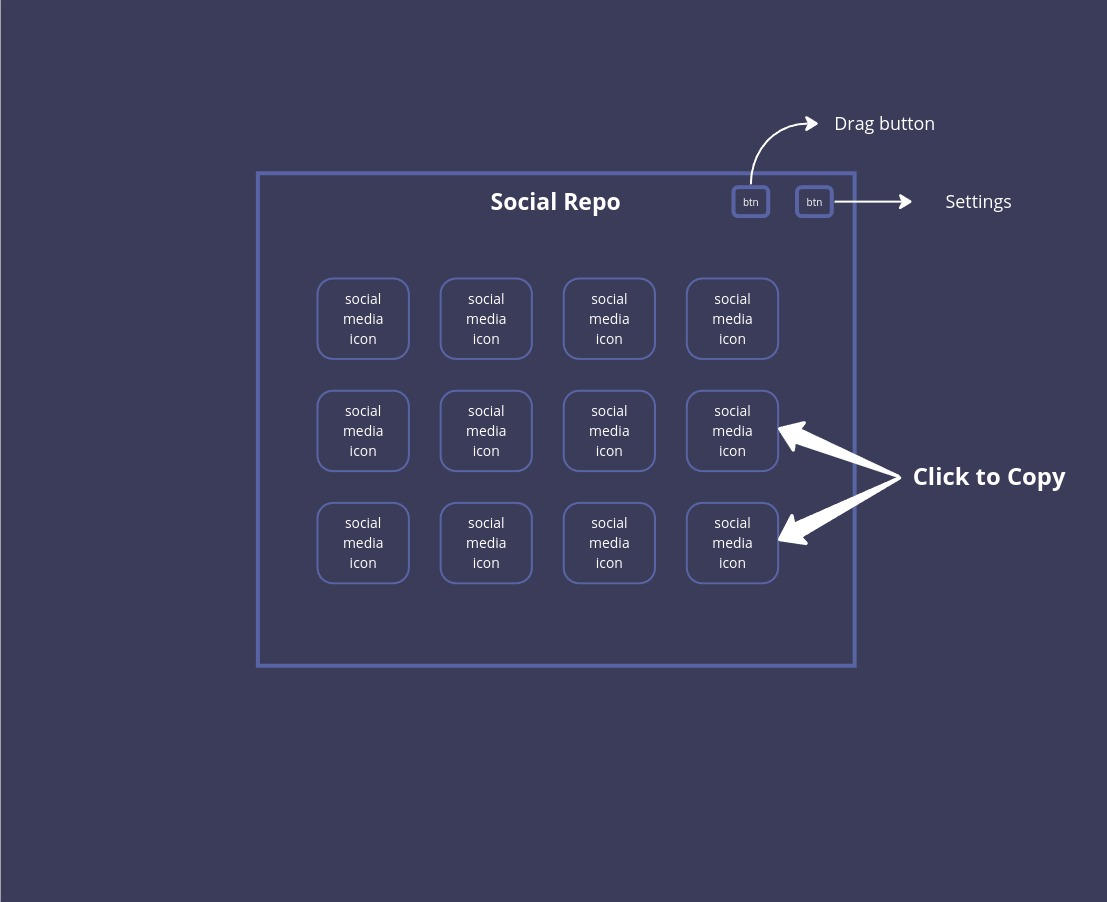
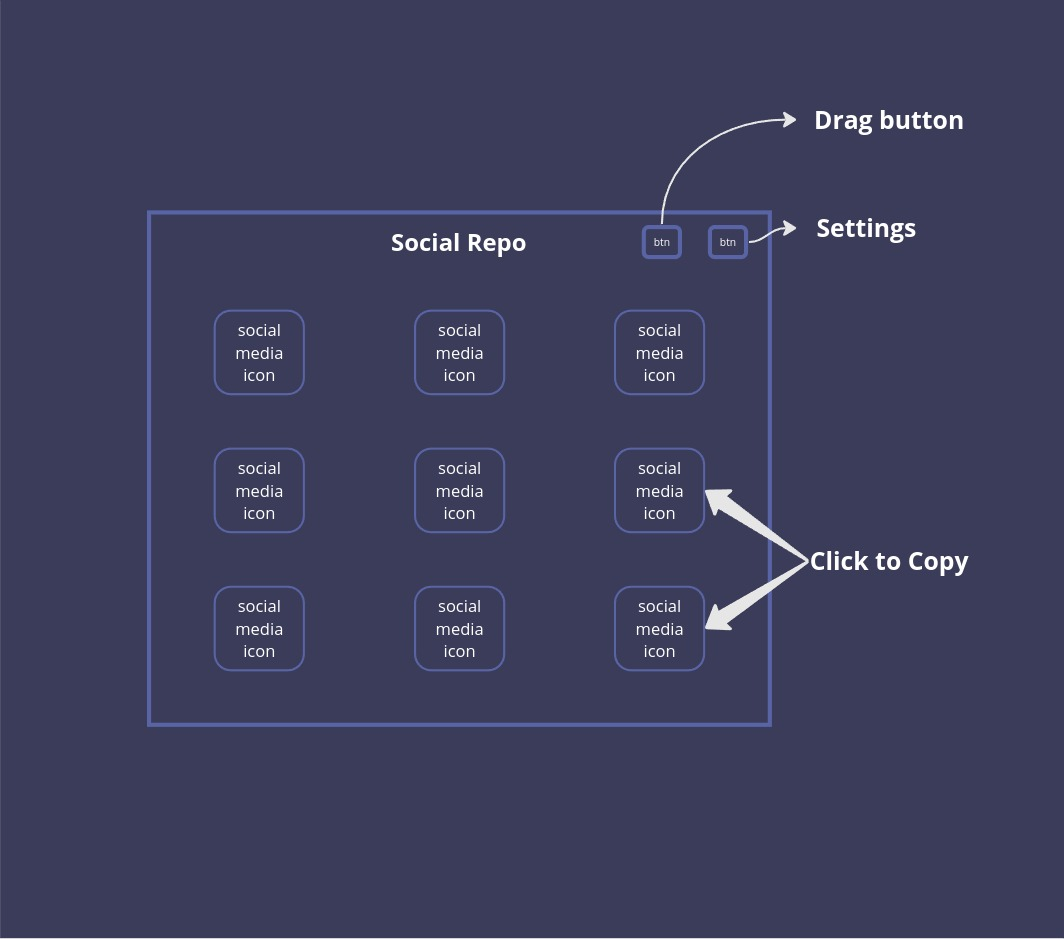
Added Project details

Changed region(s): [[0.1241, 0.1863, 0.9615, 0.7761], [0.0, 0.9933, 1.0, 1.0], [0.6823, 0.1242, 0.8994, 0.1552]]

diff --git a/.github/docs/README.md b/.github/docs/README.md
@@ -1,0 +1,81 @@
+# Social Repo - Project Details
+
+## Project Overview
+
+**Social Repo** is a browser extension which simplify your process of filling out forms and applications by storing users' social media profile links.
+
+All the details regarding the project are listed here.
+If you are here, you might be interested in contributing to the project. 🎉
+
+You can go through the following sections to get an idea about the project and then read the [contribution guidelines](CONTRIBUTING) to get started.
+
+## Table of Contents
+
+1. [Design](#design)
+    - [Front panel](#front-panel)
+    - [Full layout](#full-layout)
+2. [Logo](#logo)
+3. [Social links data](#social-links-data)
+4. [Color Theme](#color-theme)
+5. [Technical Features](#technical-features)
+    - [Tech Stack](#tech-stack)
+    - [Features](#features)
+
+## Design
+
+### Front panel
+
+![Front panel](../../design/Front%20Panel.jpg)
+
+### Full layout
+
+![Full layout](../../design/Social%20Repo.jpg)
+
+## Logo
+
+Logo is yet to made, currently using the default icon.
+![Logo](../../assets/logo.png)
+
+## Social links data
+
+We need all major social media handle url prefixes and their respective icons.
+
+-   All the social media handle url prefixes should be stored in [`social-links.json`](../../social-links.json) file.
+-   All the icons should be stored in [`icons`](../../assets/icons/) folder.
+-   Icons should be of minimum `128x128` and maximum `256x256` resolution.
+-   Icons must be in `png` format and transparent background.
+-   Icons should be named as `social-media-name.png` (e.g. `twitter.png`, `github.png`, `instagram.png`, etc...).
+
+## Color Theme
+
+Color theme is yet to be decided and will be same as the logo color theme.
+
+## Technical Features
+
+### Tech Stack
+
+-   HTML
+-   CSS
+-   JavaScript
+
+### Features
+
+As seen in [layout](#full-layout), the features are as follows:
+
+1. **Draggable Icons**: Users can rearrange the social media icons by dragging and dropping based on their preference.
+2. **Drag button**: Users can drag the icons by clicking on the drag button.
+3. **Settings button**: Users can click on settings button, which will open a settings panel where they can update their social handles.
+    - There can be a search bar, in which users can search for the social media handle they want to update.
+4. **Save button**: Under settings, there will be a save button which will save the updated social media handles.
+5. **Attribution**: Where should we give the attribution of our project? 🤔 Keeping in mind, that it doesn't overwhelm the UI.
+6. **Dark mode**: Under settings, we can have a dark mode feature, where users can switch between light and dark mode.
+7. **Social media containers**: Containers of icons should be clickable and should copy the social handle URL link to clipboard.
+    - It should show a confirmation that the link has been copied.
+    - It should also paste the link in the **focused** input field.
+8. **Command Prefix**: Users can use a command which can replace the social media handle with the respective URL link.
+    - For example, if user types `\twitter`, it should replace with `https://twitter.com/username`.
+    - This feature can be enabled/disabled under settings.
+    - Also the prefix can be changed.
+    - It should only works for input & textarea fields.
+
+> Additional features or change in features are welcome by raising issue. 🤗

diff --git a/README.md b/README.md
@@ -2,9 +2,23 @@
 
 **Social Repo** is a browser extension which simplify your process of filling out forms and applications by storing users' social media profile links.
 
+## Table of Contents
+
+1. [About](#about)
+2. [Project Details](#project-details)
+3. [Features](#features)
+4. [Usage](#usage)
+5. [Contributing](#contributing)
+6. [License](#license)
+7. [Contact](#contact)
+
 ## About
 
 Social Repo is a browser extension that allows users to store their social media profile links in one place. This extension is useful for users who frequently fill out forms and applications that require social media profile links. With SocialRepo, users can conveniently access by tapping the respective social media icon and it will autofill the link as well copy the link to clipboard which eliminates the need to manually search for and copy/paste each link individually.
+
+## Project Details
+
+Check the [Project Details](.github/docs/README.md) for brief overview of the project.
 
 ## Features
 
@@ -12,15 +26,17 @@ Social Repo is a browser extension that allows users to store their social media
 2. **Secure**: The extension is secure and does not store any personal data in the server. All the data is stored locally in the browser.
 3. **Autofill**: Users can autofill the link by tapping the respective social media icon.
 4. **Copy to Clipboard**: Users can copy the link to clipboard by tapping the respective social media icon.
-5. **Custom Commands**: Users can use custom commands, such as \twitter, to automatically replace them with their Twitter profile link, streamlining the process of filling out forms and applications.
+5. **Custom Commands**: Users can use custom commands, such as `\twitter`, to automatically replace them with their Twitter profile link, streamlining the process of filling out forms and applications.
 6. **Custom Website Link**: Users can add a custom website link like personal blog, portfolio, etc...
 7. **Drag and Drop**: Users can rearrange the social media icons by dragging and dropping based on their preference.
 
-## Installation
+## Usage
 
 Currently, it's in development phase, it will be available soon in Chrome Web Store.
 
 ## Contributing
+
+Each and every contribution matters, whether it's a small typo fix, adding social media URL, icon or a new feature. Your contribution will be appreciated by the community. 🤗
 
 We welcome contributions from the community. Please refer to the [CONTRIBUTING](.github/docs/CONTRIBUTING) file for more information.
 
